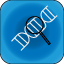
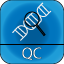
Added Temporary Images

Changed region(s): [[0.0, 0.0312, 1.0, 0.9375]]

diff --git a/src/ToolBar.html b/src/ToolBar.html
@@ -2,9 +2,7 @@
 <html>
 	<head>
 		<meta charset="UTF-8">
-		<link rel="stylesheet" href="https://maxcdn.bootstrapcdn.com/bootstrap/3.3.7/css/bootstrap.min.css" integrity="sha384-BVYiiSIFeK1dGmJRAkycuHAHRg32OmUcww7on3RYdg4Va+PmSTsz/K68vbdEjh4u" crossorigin="anonymous">
 		<link rel="stylesheet" type="text/css" href="styles/ToolBar.css">
-		<link href="https://fonts.googleapis.com/css?family=Roboto" rel="stylesheet">
 		<title>Pathogen Host Analysis Tool</title>
   </head>
   <body style="background-color: #3b85c5">
@@ -28,35 +26,17 @@
 			 console.log('clicked');
 			 ipc.send('toolBar',{action : "open",arg : target});
 		 }
-	 </script>
-	 		<div class="row" id="heading">
-				<div class="col-xs-12">
-					<h1 id="title1">PATHOGEN HOST ANALYSIS TOOL<h1>
-				</div>
-			</div>
-			<hr>
-			<div class="container-fluid"  id="container1">
-			 	<div class="row" id="toolbar1">
-					<div id="button" class="col-xs-2">
-						<img src="img/input.png" alt="input" id="input" name="input" onClick="SendOpenMessage('input')"></img>
-					</div>
-					<div id="button" class="col-xs-2">
-						<img src="img/qc.png" alt="qc" name="QC" onClick="SendOpenMessage('QC')"></img>
-					</div>
-					<div id="button" class="col-xs-2">
-						<img src="img/align.png" alt="align" name="Align" onClick="SendOpenMessage('align')"></img>
-					</div>
-					<div id="button" class="col-xs-2">
-						<img src="img/pathogenButton.png" alt="pathogen" name="Patho" onClick="SendOpenMessage('pathogen')"></img>
-					</div>
-					<div id="button" class="col-xs-2">
-						<img src="img/hostButton.png" alt="host" name="Host" onClick="SendOpenMessage('host')"></img>
-					</div>
-					<div id="button" class="col-xs-2">
-						<img src="img/output.png" alt="output" name="Output" onClick="SendOpenMessage('output')"></img>
-					</div>
-				</div>
-			</div>
+		</script>
+		<div id="title">
+				<h1>Pathogen Host Analysis Tool</h1>
+		</div>
+		<div id="toolbar">
+					<img src="img/input.png" id="input" alt="Input" name="input" onClick="SendOpenMessage('input')"></img>
+					<img src="img/qc.png" id="qc" name="QC" alt="FastQC" onClick="SendOpenMessage('QC')"></img>
+					<img src="img/align.png" id="align" name="Align" alt="Align" onClick="SendOpenMessage('align')"></img>
+					<img src="img/pathogenButton.png" id="patho" name="Patho" alt="Patho" onClick="SendOpenMessage('pathogen')"></img>
+					<img src="img/hostButton.png" id="host" name="Host" alt="Host" onClick="SendOpenMessage('host')"></img>
+					<img src="img/output.png" id="output" name="Output" alt="Output" onClick="SendOpenMessage('output')"></img>
 		</div>
 	</body>
 </html>
